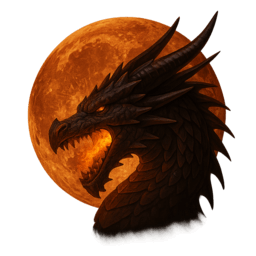
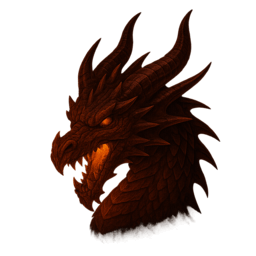
add triple jackpot

diff --git a/client/src/dungeons/beasts/DungeonRewards.tsx b/client/src/dungeons/beasts/DungeonRewards.tsx
@@ -1,10 +1,11 @@
-import { totalCollectableBeasts, totalSurvivorTokens, useStatistics } from "@/contexts/Statistics";
+import { JACKPOT_AMOUNT, totalCollectableBeasts, totalSurvivorTokens, useStatistics } from "@/contexts/Statistics";
 import { useUIStore } from "@/stores/uiStore";
 import { formatRewardNumber } from "@/utils/utils";
 import { Box, Divider, LinearProgress, Link, Skeleton, Typography } from "@mui/material";
 import { isMobile } from "react-device-detect";
 
 export default function DungeonRewards() {
+  const { strkPrice } = useStatistics();
   const { useMobileClient } = useUIStore();
   const { remainingSurvivorTokens, collectedBeasts } = useStatistics();
   const beastsRemaining = totalCollectableBeasts - (collectedBeasts - 75);
@@ -123,14 +124,29 @@ export default function DungeonRewards() {
       <Divider sx={{ width: "100%", my: 1.5 }} />
 
       <Box sx={styles.rewardSection}>
-        <Box mb={0.5}>
-          <img src="/images/jackpot_dragon.png" alt="beast" height={64} />
+        <Typography sx={[styles.rewardTitle, { color: '#d7c529' }]} mb={1}>Wanted Beasts</Typography>
+
+        <Box mb={0.5} display="flex" justifyContent="space-between">
+          <Box>
+            <img src="/images/jackpot_balrog.png" alt="beast" height={80} />
+            <Typography fontWeight={500} fontSize={13}>"Torment Bane" Balrog</Typography>
+          </Box>
+          <Box>
+            <img src="/images/jackpot_warlock.png" alt="beast" height={80} />
+            <Typography fontWeight={500} fontSize={13}>"Pain Whisper" Warlock</Typography>
+          </Box>
+          <Box>
+            <img src="/images/jackpot_dragon.png" alt="beast" height={80} />
+            <Typography fontWeight={500} fontSize={13}>"Demon Grasp" Dragon</Typography>
+          </Box>
         </Box>
 
         <Box sx={styles.rewardHeader}>
           <Box sx={{ flex: 1 }}>
-            <Typography fontWeight={700}>"Armageddon Moon" Dragon</Typography>
-            <Typography fontWeight={500} color="secondary" mt={0.5} letterSpacing={0.2}>First to collect this beast wins a $10.000 jackpot!</Typography>
+            <Typography fontWeight={500} color="secondary" mt={0.5} letterSpacing={0.2}>Each beast holds {JACKPOT_AMOUNT.toLocaleString()} $STRK!</Typography>
+            {strkPrice !== null && Number(strkPrice) > 0 && <Typography mt={0.5} sx={{ fontSize: '0.85rem', color: 'rgba(255, 255, 255, 0.6)' }}>
+              value: ~${(Number(strkPrice) * JACKPOT_AMOUNT).toLocaleString()}
+            </Typography>}
           </Box>
         </Box>
       </Box>

diff --git a/client/src/contexts/Statistics.tsx b/client/src/contexts/Statistics.tsx
@@ -7,6 +7,7 @@ import { createContext, PropsWithChildren, useContext, useEffect, useState } fro
 export interface StatisticsContext {
   gamePrice: string | null;
   gamePriceHistory: any[];
+  strkPrice: string | null;
 
   fetchRewardTokensClaimed: () => Promise<void>;
   remainingSurvivorTokens: number | null;
@@ -16,9 +17,10 @@ export interface StatisticsContext {
 // Create a context
 const StatisticsContext = createContext<StatisticsContext>({} as StatisticsContext);
 
-export const OPENING_TIME = 1757420824;
+export const OPENING_TIME = 1759420824;
 export const totalSurvivorTokens = 2000000;
 export const totalCollectableBeasts = 93150;
+export const JACKPOT_AMOUNT = 33333;
 
 const DungeonTicket = NETWORKS.SN_MAIN.dungeonTicket;
 const STRK = NETWORKS.SN_MAIN.paymentTokens.find(token => token.name === 'STRK')?.address!;
@@ -33,6 +35,7 @@ export const StatisticsProvider = ({ children }: PropsWithChildren) => {
   const [gamePriceHistory, setGamePriceHistory] = useState<any[]>([]);
   const [remainingSurvivorTokens, setRemainingSurvivorTokens] = useState<number | null>(null);
   const [collectedBeasts, setCollectedBeasts] = useState(0);
+  const [strkPrice, setStrkPrice] = useState<string | null>(null);
 
   const fetchCollectedBeasts = async () => {
     const result = await countBeasts();
@@ -49,6 +52,11 @@ export const StatisticsProvider = ({ children }: PropsWithChildren) => {
     setGamePrice((swap.total * -1 / 1e6).toFixed(2));
   }
 
+  const fetchStrkPrice = async () => {
+    const swap = await getSwapQuote(100e18, STRK, USDC);
+    setStrkPrice((swap.total / 1e6 / 100).toFixed(2));
+  }
+
   const fetchRewardTokensClaimed = async () => {
     const result = await getRewardTokensClaimed();
     setRemainingSurvivorTokens(result !== null ? totalSurvivorTokens - result : null);
@@ -57,6 +65,7 @@ export const StatisticsProvider = ({ children }: PropsWithChildren) => {
   useEffect(() => {
     fetchPriceHistory();
     fetchGamePrice();
+    fetchStrkPrice();
     fetchRewardTokensClaimed();
     fetchCollectedBeasts();
   }, []);
@@ -65,6 +74,7 @@ export const StatisticsProvider = ({ children }: PropsWithChildren) => {
     <StatisticsContext.Provider value={{
       gamePrice,
       gamePriceHistory,
+      strkPrice,
       fetchRewardTokensClaimed,
       remainingSurvivorTokens,
       collectedBeasts,

diff --git a/client/src/desktop/overlays/Combat.tsx b/client/src/desktop/overlays/Combat.tsx
@@ -9,6 +9,8 @@ import Beast from './Beast';
 import InventoryOverlay from './Inventory';
 import SettingsOverlay from './Settings';
 import TipsOverlay from './Tips';
+import { JACKPOT_BEASTS } from '@/constants/beast';
+import { useDynamicConnector } from '@/contexts/starknet';
 
 const attackMessage = "Attacking";
 const fleeMessage = "Attempting to flee";
@@ -16,6 +18,7 @@ const equipMessage = "Equipping items";
 
 export default function CombatOverlay() {
   const { executeGameAction, actionFailed, spectating } = useGameDirector();
+  const { currentNetworkConfig } = useDynamicConnector();
   const { adventurer, adventurerState, beast, battleEvent, bag, undoEquipment } = useGameStore();
 
   const [untilDeath, setUntilDeath] = useState(false);
@@ -96,12 +99,12 @@ export default function CombatOverlay() {
   }, [adventurer?.equipment]);
 
   const isJackpot = useMemo(() => {
-    return beast?.baseName === "Dragon" && beast?.specialPrefix === "Armageddon" && beast?.specialSuffix === "Moon";
+    return currentNetworkConfig.beasts && JACKPOT_BEASTS.includes(beast?.name!);
   }, [beast]);
 
   return (
     <Box sx={[styles.container, spectating && styles.spectating]}>
-      <Box sx={[styles.imageContainer, { backgroundImage: `url('/images/battle_scenes/${isJackpot ? "jackpot" : beast!.baseName.toLowerCase()}.png')` }]} />
+      <Box sx={[styles.imageContainer, { backgroundImage: `url('/images/battle_scenes/${isJackpot ? `jackpot_${beast!.baseName.toLowerCase()}` : beast!.baseName.toLowerCase()}.png')` }]} />
 
       {/* Adventurer */}
       <Adventurer combatStats={combatStats} />

diff --git a/client/src/mobile/containers/BeastScreen.tsx b/client/src/mobile/containers/BeastScreen.tsx
@@ -16,6 +16,8 @@ import strikeAnim from "../assets/animations/strike.json";
 import AnimatedText from '../components/AnimatedText';
 import BeastTooltip from '../components/BeastTooltip';
 import ItemTooltip from '../components/ItemTooltip';
+import { JACKPOT_AMOUNT } from '@/contexts/Statistics';
+import { JACKPOT_BEASTS } from '@/constants/beast';
 
 const attackMessage = "Attacking";
 const fleeMessage = "Attempting to flee";
@@ -152,7 +154,7 @@ export default function BeastScreen() {
   const maxHealth = STARTING_HEALTH + (adventurer!.stats.vitality * 15);
   const collectable = beast ? beast!.isCollectable : false;
   const collectableTraits = collectable ? getCollectableTraits(beast!.seed) : null;
-  const isJackpot = beast?.baseName === "Dragon" && beast?.specialPrefix === "Armageddon" && beast?.specialSuffix === "Moon";
+  const isJackpot = currentNetworkConfig.beasts && JACKPOT_BEASTS.includes(beast?.name!);
 
   const hasNewItemsEquipped = useMemo(() => {
     if (!adventurer?.equipment || !adventurerState?.equipment) return false;
@@ -219,7 +221,7 @@ export default function BeastScreen() {
                   </Typography>
                   {isJackpot && (
                     <Typography sx={styles.traitBox}>
-                      {"$10.000 jackpot!"}
+                      {`${JACKPOT_AMOUNT.toLocaleString()} $STRK JACKPOT!`}
                     </Typography>
                   )}
                   {collectableTraits && (

diff --git a/client/src/desktop/overlays/Beast.tsx b/client/src/desktop/overlays/Beast.tsx
@@ -8,6 +8,8 @@ import { motion } from 'framer-motion';
 import { useEffect, useState } from 'react';
 import ArmorTooltip from '../components/ArmorTooltip';
 import WeaponTooltip from '../components/WeaponTooltip';
+import { JACKPOT_AMOUNT } from '@/contexts/Statistics';
+import { JACKPOT_BEASTS } from '@/constants/beast';
 
 const pulseGold = keyframes`
   0% {
@@ -29,7 +31,7 @@ export default function Beast() {
   const beastPower = Number(beast!.level) * (6 - Number(beast!.tier));
   const collectable = beast ? beast!.isCollectable : false;
   const collectableTraits = collectable ? getCollectableTraits(beast!.seed) : null;
-  const isJackpot = beast?.baseName === "Dragon" && beast?.specialPrefix === "Armageddon" && beast?.specialSuffix === "Moon";
+  const isJackpot = currentNetworkConfig.beasts && JACKPOT_BEASTS.includes(beast?.name!);
 
   useEffect(() => {
     if (battleEvent && battleEvent.type === "attack") {
@@ -105,7 +107,7 @@ export default function Beast() {
             {currentNetworkConfig.beasts ? "Defeat this beast to collect it" : "Collectable Beast (beast mode only)"}
           </Typography>
           {isJackpot && <Typography sx={styles.collectableText}>
-            {"$10.000 JACKPOT!"}
+            {`${JACKPOT_AMOUNT.toLocaleString()} $STRK JACKPOT!`}
           </Typography>}
         </Box>
       )}

diff --git a/client/src/components/BeastCollectedPopup.tsx b/client/src/components/BeastCollectedPopup.tsx
@@ -4,6 +4,8 @@ import { motion } from 'framer-motion';
 import { extractImageFromTokenURI } from '@/utils/utils';
 import { useController } from '@/contexts/controller';
 import { Beast } from '@/types/game';
+import { JACKPOT_AMOUNT } from '@/contexts/Statistics';
+import { JACKPOT_BEASTS } from '@/constants/beast';
 
 export interface BeastCollectedPopupProps {
   onClose: () => void;
@@ -15,7 +17,7 @@ export default function BeastCollectedPopup({ onClose, tokenURI, beast }: BeastC
   const imageSrc = extractImageFromTokenURI(tokenURI);
   const { openProfile } = useController();
 
-  const isJackpot = beast.baseName === "Dragon" && beast.specialPrefix === "Armageddon" && beast.specialSuffix === "Moon";
+  const isJackpot = JACKPOT_BEASTS.includes(beast?.name!);
 
   const getSurvivorTokens = (tier: number): number => {
     switch (tier) {
@@ -61,7 +63,7 @@ export default function BeastCollectedPopup({ onClose, tokenURI, beast }: BeastC
                 sx={styles.tokenImage}
               />
               <Typography sx={styles.jackpotText}>
-                +$10.000 jackpot!
+                +${JACKPOT_AMOUNT.toLocaleString()} $STRK JACKPOT!
               </Typography>
             </>}
           </Box>

diff --git a/client/src/desktop/contexts/GameDirector.tsx b/client/src/desktop/contexts/GameDirector.tsx
@@ -26,6 +26,7 @@ import {
 import { useAnalytics } from "@/utils/analytics";
 import { useMarketStore } from "@/stores/marketStore";
 import { useUIStore } from "@/stores/uiStore";
+import { JACKPOT_BEASTS } from "@/constants/beast";
 
 export interface GameDirectorContext {
   executeGameAction: (action: GameAction) => void;
@@ -295,9 +296,9 @@ export const GameDirector = ({ children }: PropsWithChildren) => {
     }
 
     // Jackpot video
-    if (event.type === "beast" && event.beast!.isCollectable && event.beast!.specialPrefix === "Armageddon" && event.beast!.specialSuffix === "Moon") {
+    if (event.type === "beast" && event.beast!.isCollectable && JACKPOT_BEASTS.includes(event.beast!.name!)) {
       setShowOverlay(false);
-      setVideoQueue((prev) => [...prev, streamIds["Armageddon Moon Dragon"]]);
+      setVideoQueue((prev) => [...prev, streamIds[`jackpot_${event.beast!.baseName!.toLowerCase()}` as keyof typeof streamIds]]);
     }
 
     if (delayTimes[event.type] && !skipDelay) {

diff --git a/client/src/utils/cloudflare.ts b/client/src/utils/cloudflare.ts
@@ -87,7 +87,9 @@ export const streamIds = {
   "Ogre": "923a8565e8926025ff90d6114513918a",
   "Orc": "181a4ae107ba701d5672e99d33b803fa",
   "Skeleton": "70b9d0bb4ae661bb2c548a11bfaad174",
-  "Armageddon Moon Dragon": "24a8fbcb677d3783c6deeb12b40412b1",
+  "jackpot_dragon": "6a824d8cc14c53b267ebb0959ba52d4a",
+  "jackpot_balrog": "aff047703e774abec0c5e0b22e261961",
+  "jackpot_warlock": "d24ba192ebed7c1920b2d66122e902c1",
 
   // Obstacles
   "Demonic Altar": "f326ce8a56dfa31d73c043a9dddff1eb",

diff --git a/client/src/constants/beast.ts b/client/src/constants/beast.ts
@@ -20,6 +20,12 @@ export const GOLD_MULTIPLIER = {
 export const GOLD_REWARD_DIVISOR = 2;
 export const MINIMUM_XP_REWARD = 4;
 
+export const JACKPOT_BEASTS = [
+    '"Demon Grasp" Dragon',
+    '"Torment Bane" Balrog',
+    '"Pain Whisper" Warlock'
+];
+
 // Special name mappings from loot.cairo
 export const BEAST_NAME_PREFIXES: { [key: number]: string } = {
     1: "Agony",
